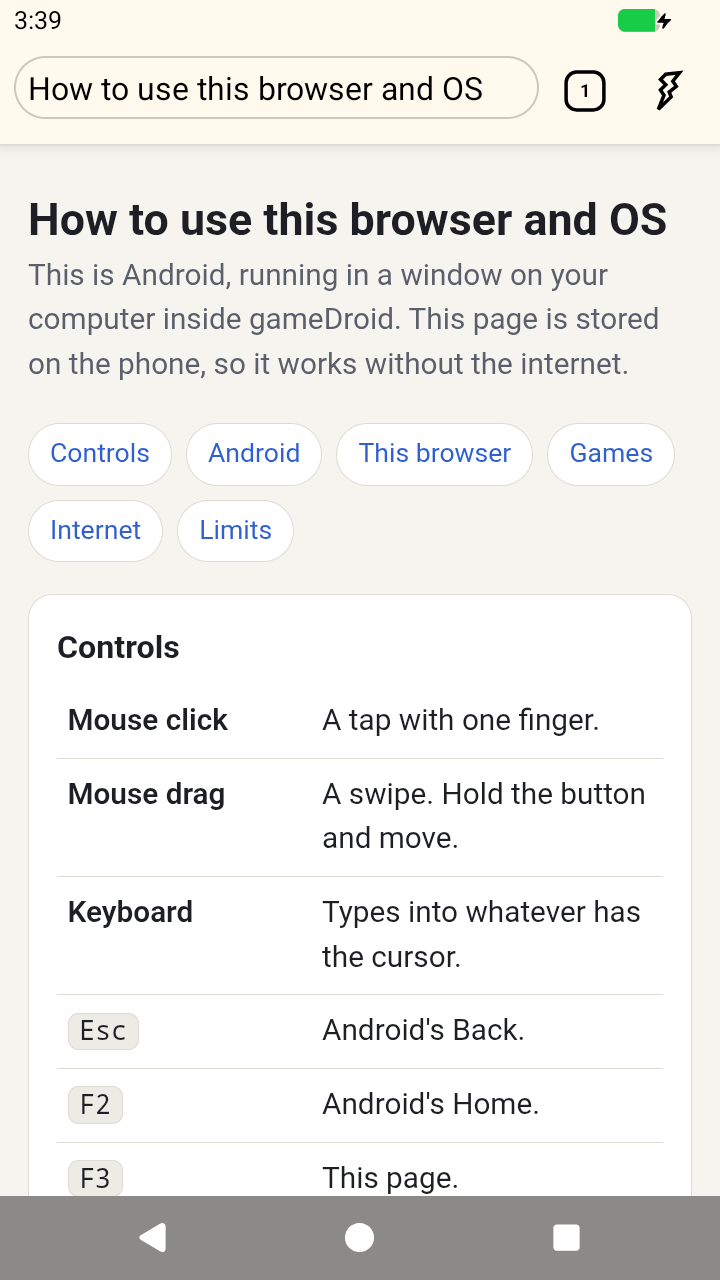
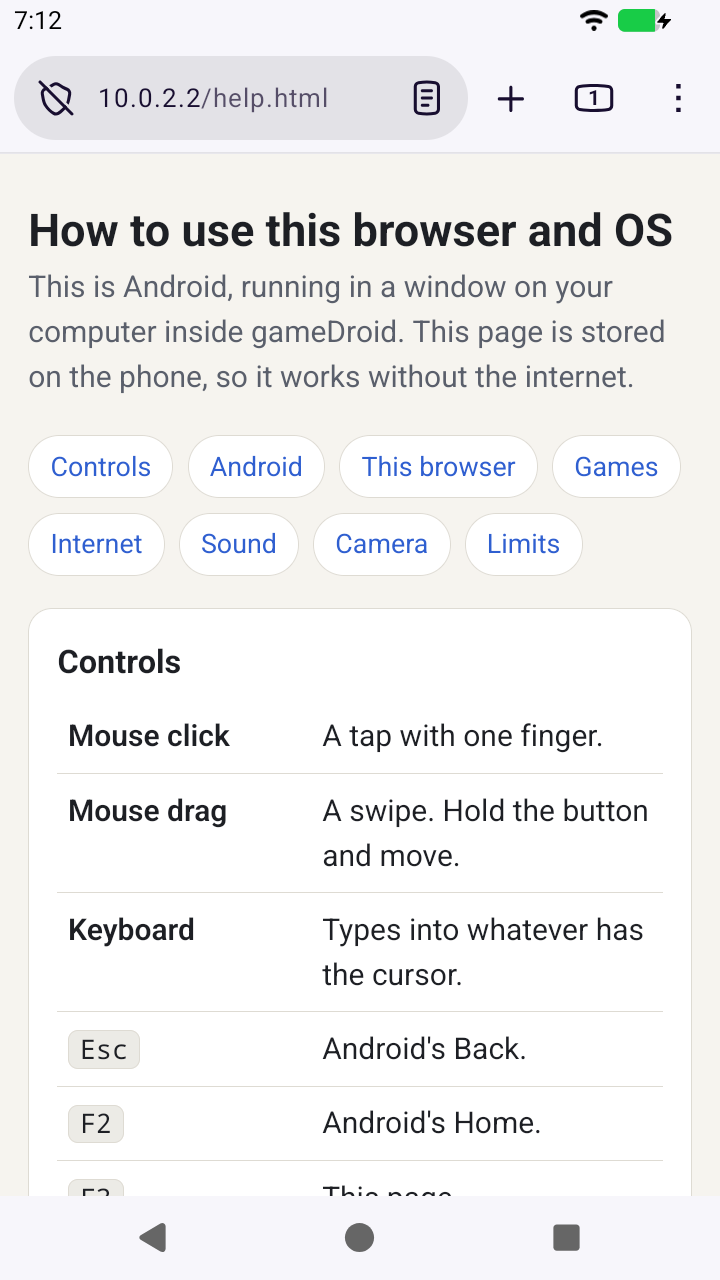
Firefox: help page wording, README, notes on what was settled
Claude-Session: https://claude.ai/code/session_01TACX1Xcs9qFuoDuXcwJgza

diff --git a/core/device/assets/help.html b/core/device/assets/help.html
@@ -36,7 +36,7 @@
 <body>
 <main>
   <h1>How to use this browser and OS</h1>
-  <p class="lead">This is Android, running in a window on your computer inside gameDroid. This page is stored on the phone, so it works without the internet.</p>
+  <p class="lead">This is Android, running in a window on your computer inside gameDroid. This page comes with gameDroid, so it works without the internet.</p>
 
   <nav>
     <a href="#controls">Controls</a>

diff --git a/README.md b/README.md
@@ -40,7 +40,7 @@ device in CI. More below.*
 | GPU acceleration | Working in CI on Linux: Android draws through gfxstream on the host, and the app turns this on by itself when the graphics library it carries is shown to work (tried first in a separate process; a start that never boots is not repeated unasked; `--gpu on/off` overrides). CI has no GPU, so this proves the path, not the speed. Not yet run on Windows or on a real GPU ([plan and results](docs/engine/E8-gpu-plan.md)) |
 | Input engine: game profiles; keys to taps, a virtual joystick, mouse look | Started in `core/input`, tested on its own; not yet connected to the running Android |
 | One file that downloads Android, sets it up and starts it | Working in CI on both hosts: `gamedroid.exe` (3 MB, needs nothing installed) and a Linux binary. Started with no arguments it asks where to keep Android and how much room games may use, downloads Android (1.2 GB, checked against a pinned SHA-256, continued if interrupted), prepares it (under 20 seconds), boots it and shows it in its window. Not yet run on a real machine outside CI ([decision](docs/adr/0002-single-file.md)) |
-| A help page, and a real browser | Working in CI. "How to use this browser and OS" is stored on the phone after boot. When the Fulguris browser (free software, fetched from F-Droid) is installed, gameDroid makes that page its home page, skips its first-run screens and makes it Android's default browser. F3 in the window opens the page. Not yet done: gameDroid fetching and installing Fulguris by itself on first run; CI installs it by hand |
+| A help page, and a real browser | Working in CI on Linux. On first run gameDroid fetches Firefox (as Fennec, the free-software build from F-Droid, 128 MB, checked against a fixed SHA-256), installs it, makes it Android's default browser, skips its welcome screens and shows "How to use this browser and OS" as its first page. Firefox opens no files on the phone, so the page is served by the machine's own gateway at `http://10.0.2.2/help.html`, with or without internet. F3 in the window opens the page. Without internet at first run, Android keeps its stock test browser, which gets the page too |
 | Sound and microphone | Android has a sound card and plays into it (CI). The app connects the computer's speakers and, only while Android records, a microphone (`--microphone`, `--list-microphones`). No real device has been heard yet: CI has none |
 | Camera | Android has one camera, backed by the engine (CI): its camera app shows gameDroid's test picture, live. The app puts the computer's webcam behind it, opened only while Android's camera is in use (`--camera`, `--list-cameras`). No real webcam has been used yet: CI has none |
 | Firefox | Looked into. F-Droid's free build of Firefox (Fennec) has an x86-64 release; it installs and starts on gameDroid (CI). How to offer it is undecided ([notes](docs/research/firefox.md)) |
@@ -77,11 +77,11 @@ The same on Linux, after a mouse swipe unlocked it:
 
 ### The help page, inside Android
 
-"How to use this browser and OS", stored on the phone. Left: as the home
-page of the Fulguris browser, which gameDroid sets up. Right: in the stock
+"How to use this browser and OS". Left: in Firefox (Fennec), which
+gameDroid sets up, as its first page. Right: in the stock
 image's test browser (CI):
 
-<img src="docs/screenshots/browser-home.png" width="240" alt="The help page as Fulguris's home page"> <img src="docs/screenshots/help-page.png" width="240" alt="The gameDroid help page open in Android's stock browser">
+<img src="docs/screenshots/browser-home.png" width="240" alt="The help page in Firefox"> <img src="docs/screenshots/help-page.png" width="240" alt="The gameDroid help page open in Android's stock browser">
 
 ### Android on Windows
 

diff --git a/docs/research/firefox.md b/docs/research/firefox.md
@@ -56,3 +56,35 @@ keeps the help page where it is. If Firefox turns out to be what people
 reach for, B is one line away.
 
 **The question for the owner:** A, B or C.
+
+## Decision and outcome (2026-11-13)
+
+The owner chose **C**: Fennec replaces Fulguris. What was then settled:
+
+- **Telemetry (read in source, not measured on the wire).** F-Droid's
+  build recipe turns the telemetry and crash-reporting build flags off and
+  patches the settings to fixed "off" values; the libraries for Adjust,
+  Firebase and Play are replaced by empty stand-ins. The sentence on the
+  welcome screen is the ordinary Firefox's text, left in. F-Droid itself
+  still lists the app as connecting to "various Mozilla services".
+  gameDroid therefore skips the welcome screens rather than show a
+  sentence that is untrue of this build.
+- **Start page.** Firefox for Android has no home-page address, and
+  refuses `file:` addresses everywhere (address bar and intents alike);
+  `content:` is allowed for PDFs only. So the help page is served by the
+  machine's gateway at `http://10.0.2.2/help.html` (bvmm's NAT serves
+  fixed pages), shown as Firefox's first page, and Firefox is set to open
+  on its last page. Closing that tab loses it as the opening page; F3
+  brings it back.
+- **A surprise (live, CI).** Android 17 asks before an app may reach a
+  local-network address, and 10.0.2.2 is one: Firefox showed "Allow Fennec
+  to find, connect to ... nearby devices?" in place of the page. gameDroid
+  grants that permission at setup.
+- **Verified live in CI (Linux):** installed from the fixed file, default
+  browser, no welcome screens, help page shown, and shown again after the
+  browser is stopped and started from its icon.
+- **Not verified:** video playback and WebGL in it; the same on Windows;
+  what it actually sends on the wire. A one-time hint bubble ("Shake your
+  device to summarize this page") still appears on the first page.
+- No DRM module (Widevine) in this build: copy-protected video sites will
+  not play.
